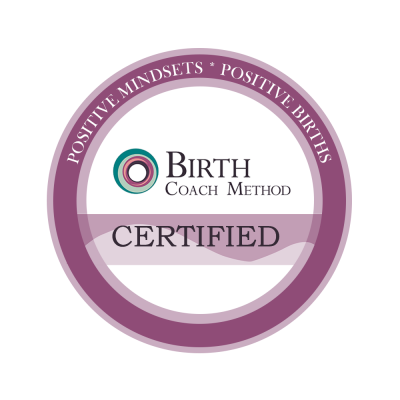
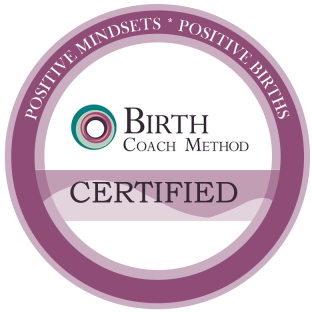
lighter feeling ont "Tacoma'
Cred logos all the same size (200px)

Removed alternating background colors from packages

diff --git a/packages.html b/packages.html
@@ -62,80 +62,52 @@
       <main><div>
         <div class="section1"style="align-items: left; justify-content: left;">
           <div class="section1-text">
-            <p style="font-size: smaller; font-style: italic;">All packages include text communications between sessions.</p><br>
+            <br>
             <h1>Packages</h1>
             <br />
-            <h2>Introductory/Exploratory Session</h2>
-            <br />
-            <p>
-              One free 45-minute session, to ask any questions you may have about me or the coaching process, in order to get a sense of whether coaching sounds right for you and if we are a good fit together.
-            </p>
+            <p style="font-size: smaller; font-style: italic;">All packages include text communications between sessions.</p>
           </div>
         </div>
 
         <div class="section2" style="align-items: left; justify-content: left;">
           <div class="section2-text">
+            <h2>Introductory/Exploratory Session</h2>
             <br />
+            <p>
+              One free 45-minute session, to ask any questions you may have about me or the coaching process, in order to get a sense of whether coaching sounds right for you and if we are a good fit together.
+            </p><br /><hr><br>
             <h2>Individual Coaching Sessions</h2>
             <br />
             <p>
               $100 per 60-minute session
-            </p>
-          </div>
-        </div>
-
-        <div class="section1"style="align-items: left; justify-content: left;">
-          <div class="section1-text">
-            <br />
+            </p><br /><hr><br>
             <h2>Prenatal Coaching Package</h2>
             <br />
             <p>
               $500 for six 60-minute sessions, including one postpartum session
-            </p>
-          </div>
-        </div>
-
-        <div class="section2"style="align-items: left; justify-content: left;">
-          <div class="section2-text">
-            <br />
+            </p><br /><hr><br>
             <h2>Full Nurture Package</h2>
             <br />
             <p>
               $650 for eight 60-minute sessions, including up to two postpartum sessions
-            </p>
-          </div>
-        </div>
-                <div class="section1"style="align-items: left; justify-content: left;">
-          <div class="section1-text">
-            <br />
-            <h2>Postpartum Package</h2>
+            <br><br><hr><br></p><h2>Postpartum Package</h2>
             <br />
             <p>
               $250 for three postpartum sessions
-            </p>
-          </div>
-        </div>
-
-        <div class="section2"style="align-items: left; justify-content: left;">
-          <div class="section2-text">
-            <br />
+            </p><br /><hr><br>
             <h2>Childbirth Education Add-On</h2>
             <br />
             <p>
               Add Lamaze childbirth education to any coaching package for $200
-            </p>
-          </div>
-        </div>
-
-        <div class="section1"style="align-items: left; justify-content: left;">
-          <div class="section1-text">
-            <br />
+            </p><br /><hr><br>
             <h2>Stand-Alone Childbirth Education</h2>
             <br />
             <p>
               $300 for six Lamaze private childbirth education classes, tailored to your needs
-            </p>
+            </p><br><hr>
           </div>
+        </div>
+
         </div></div>
       </main>
     </body>

diff --git a/style.css b/style.css
@@ -70,7 +70,7 @@ input[type="submit"]:hover {
 body {
   background-color: #dff2e2;
   color: #666666;
-  font-family: Verdana, Geneva, Tahoma, sans-serif;
+  font-family: Tahoma, sans-serif;
   margin: 0;
 }
 
@@ -344,6 +344,12 @@ nav li {
   -o-border-radius: 5%;
   justify-content: center;
   align-items: center;
+}
+
+.section-grid-cred img {
+  width: auto;
+  height: 100%;
+  max-height: 200px;
 }
 
 .section-grid-cred:hover {
